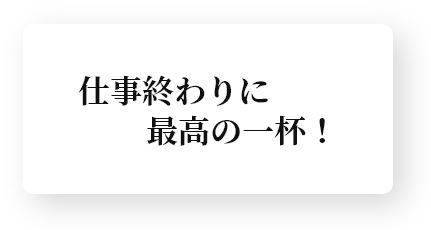
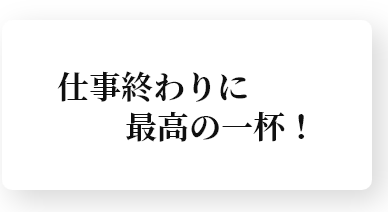
[update] 375pxで購入ボタンが折り返される問題の修正・SPのパーフェクトピクセル見直し

Changed region(s): [[0.1546, 0.3113, 0.8041, 0.6792], [0.0928, 0.2264, 0.9278, 0.8774]]

diff --git a/assets/stylesheet.css b/assets/stylesheet.css
@@ -398,12 +398,11 @@ header {
 }
 
 .benefit_voices {
-  margin-top: -90%;
+  margin-top: -89%;
 }
 
 .voice1 {
   position: static;
-  margin-left: -2%;
 }
 
 .voice2 {
@@ -419,7 +418,6 @@ header {
 
 .voice4 {
   position: static;
-  margin-top: -1%;
   float: right;
 }
 
@@ -705,6 +703,9 @@ footer {
 
 .footer_list li {
   list-style: none;
+}
+
+.footer_list li:not(:last-child) {
   margin-bottom: 27px;
 }
 
@@ -716,17 +717,14 @@ footer {
 
 .footer_btn_wrap {
   text-align: center;
-  margin: 15% 0 0 0;
+  margin: 17% 0 0 1%;
   width: 100%;
 }
 
-.footer_btn {
+.water_btn.footer_btn {
   font-family: 'Noto Serif JP', sans-serif;
   font-size: 1.625rem;
   position: static;
-}
-
-.water_btn.footer_btn {
   border-radius: 3rem;
   padding: 5% 10%;
 }
@@ -999,7 +997,7 @@ footer {
   }
 
   .sp_section1_fruits_left {
-    margin-top: -20%;
+    margin-top: -16%;
   }
 
   .sp_section1_fruits_right {
@@ -1018,7 +1016,11 @@ footer {
   .campaign_product_wrap {
     font-size: 1.5rem;
     margin-top: 0%;
-    margin-bottom: 16%;
+    margin-bottom: 8%;
+  }
+
+  .campaign_product_name {
+    margin-right: 7%;
   }
 
   .campaign_product_halfdozen {
@@ -1040,7 +1042,8 @@ footer {
   }
 
   .water_btn.campaign_btn {
-    padding: 3.5% 5%;
+    display: inline-block;
+    width: 100%;
   }
 
   .limited_middle_section {
@@ -1051,6 +1054,7 @@ footer {
   }
 
   .limited_pack_image {
+    margin: 0 20% 0 auto;
     padding: 8% 0 0 0;
     width: 70%;
   }
@@ -1075,8 +1079,9 @@ footer {
   }
 
   .benefit_middle_bg {
-    background-position: 50% 65%;
+    background-position: 65% 60%;
     background-size: 120% 60%;
+    padding-bottom: 120px;
   }
 
   .benefit_middle_section {
@@ -1089,11 +1094,14 @@ footer {
   }
 
   .benefit_top_section {
+    margin-top: 0%;
     margin-bottom: 0px;
+    padding-right: 0%;
+    justify-content: left;
   }
 
   .benefit_title {
-    margin: 1% 5% 0 5%;
+    margin: 3% 5% 0 5%;
     width: 80%;
   }
 
@@ -1103,13 +1111,13 @@ footer {
 
   .sp_benefit_fruits {
     display: block;
-    margin-top: -30%;
+    margin-top: -32%;
     margin-left: auto;
   }
 
   .cheers {
     width: 100%;
-    margin: 40% 0 0 0;
+    margin: 45% 0 0 0;
   }
 
   .cheers img {
@@ -1117,7 +1125,7 @@ footer {
   }
 
   .benefit_voices {
-    margin-top: -120%;
+    margin-top: -124%;
   }
 
   .voice1 {
@@ -1224,8 +1232,7 @@ footer {
   }
 
   .product_lager_area {
-    margin-top: 53px;
-    margin-right: 0%;
+    margin-right: 3%;
   }
 
   .product_lager_comment {
@@ -1248,8 +1255,8 @@ footer {
   }
 
   .fruits_beer {
-    margin-top: -140%;
-    margin-left: -7%;
+    margin-top: -143%;
+    margin-left: -6%;
     width: 100%;
   }
 
@@ -1289,7 +1296,7 @@ footer {
     width: 50%;
     height: 186px;
     margin-top: -20%;
-    margin-left: -5%;
+    margin-left: -3%;
   }
 
   .about_company {
@@ -1358,26 +1365,23 @@ footer {
   }
 
   .footer_btn_wrap {
-    margin: 0 0 0 auto;
-    width: 63.2%;
+    margin: 5% 0 0 auto;
+    width: 70%;
   }
 
   .footer_list {
     float: none;
-    margin: 2% 0 0 34%;
+    margin: 3% 0 0 34%;
   }
 
   .footer_list li a {
     font-size: 1.125rem;
   }
 
-  .footer_btn {
+  .water_btn.footer_btn {
+    padding: 4% 8%;
     font-size: 1.375rem;
     margin-top: -10%;
-  }
-
-  .water_btn.footer_btn {
-    padding: 5% 5%;
   }
 
   .footer_company_info {
@@ -1404,7 +1408,8 @@ footer {
 
   .warning_text {
     font-size: 1rem;
-    margin: 2% 10.3%;
+    margin: 2% 0;
+    width: 65%;
   }
 
   .footer_container {

diff --git a/index.html b/index.html
@@ -111,7 +111,7 @@
           </div>
           <div class="benefit_voices">
             <div class="voice1">
-              <img src="./assets/img/voice1.png" width="431" height="230" alt="仕事の終わりに最高の一杯！">
+              <img src="./assets/img/voice1.png" width="388" height="212" alt="仕事の終わりに最高の一杯！">
             </div>
             <div class="voice2">
               <picture>
